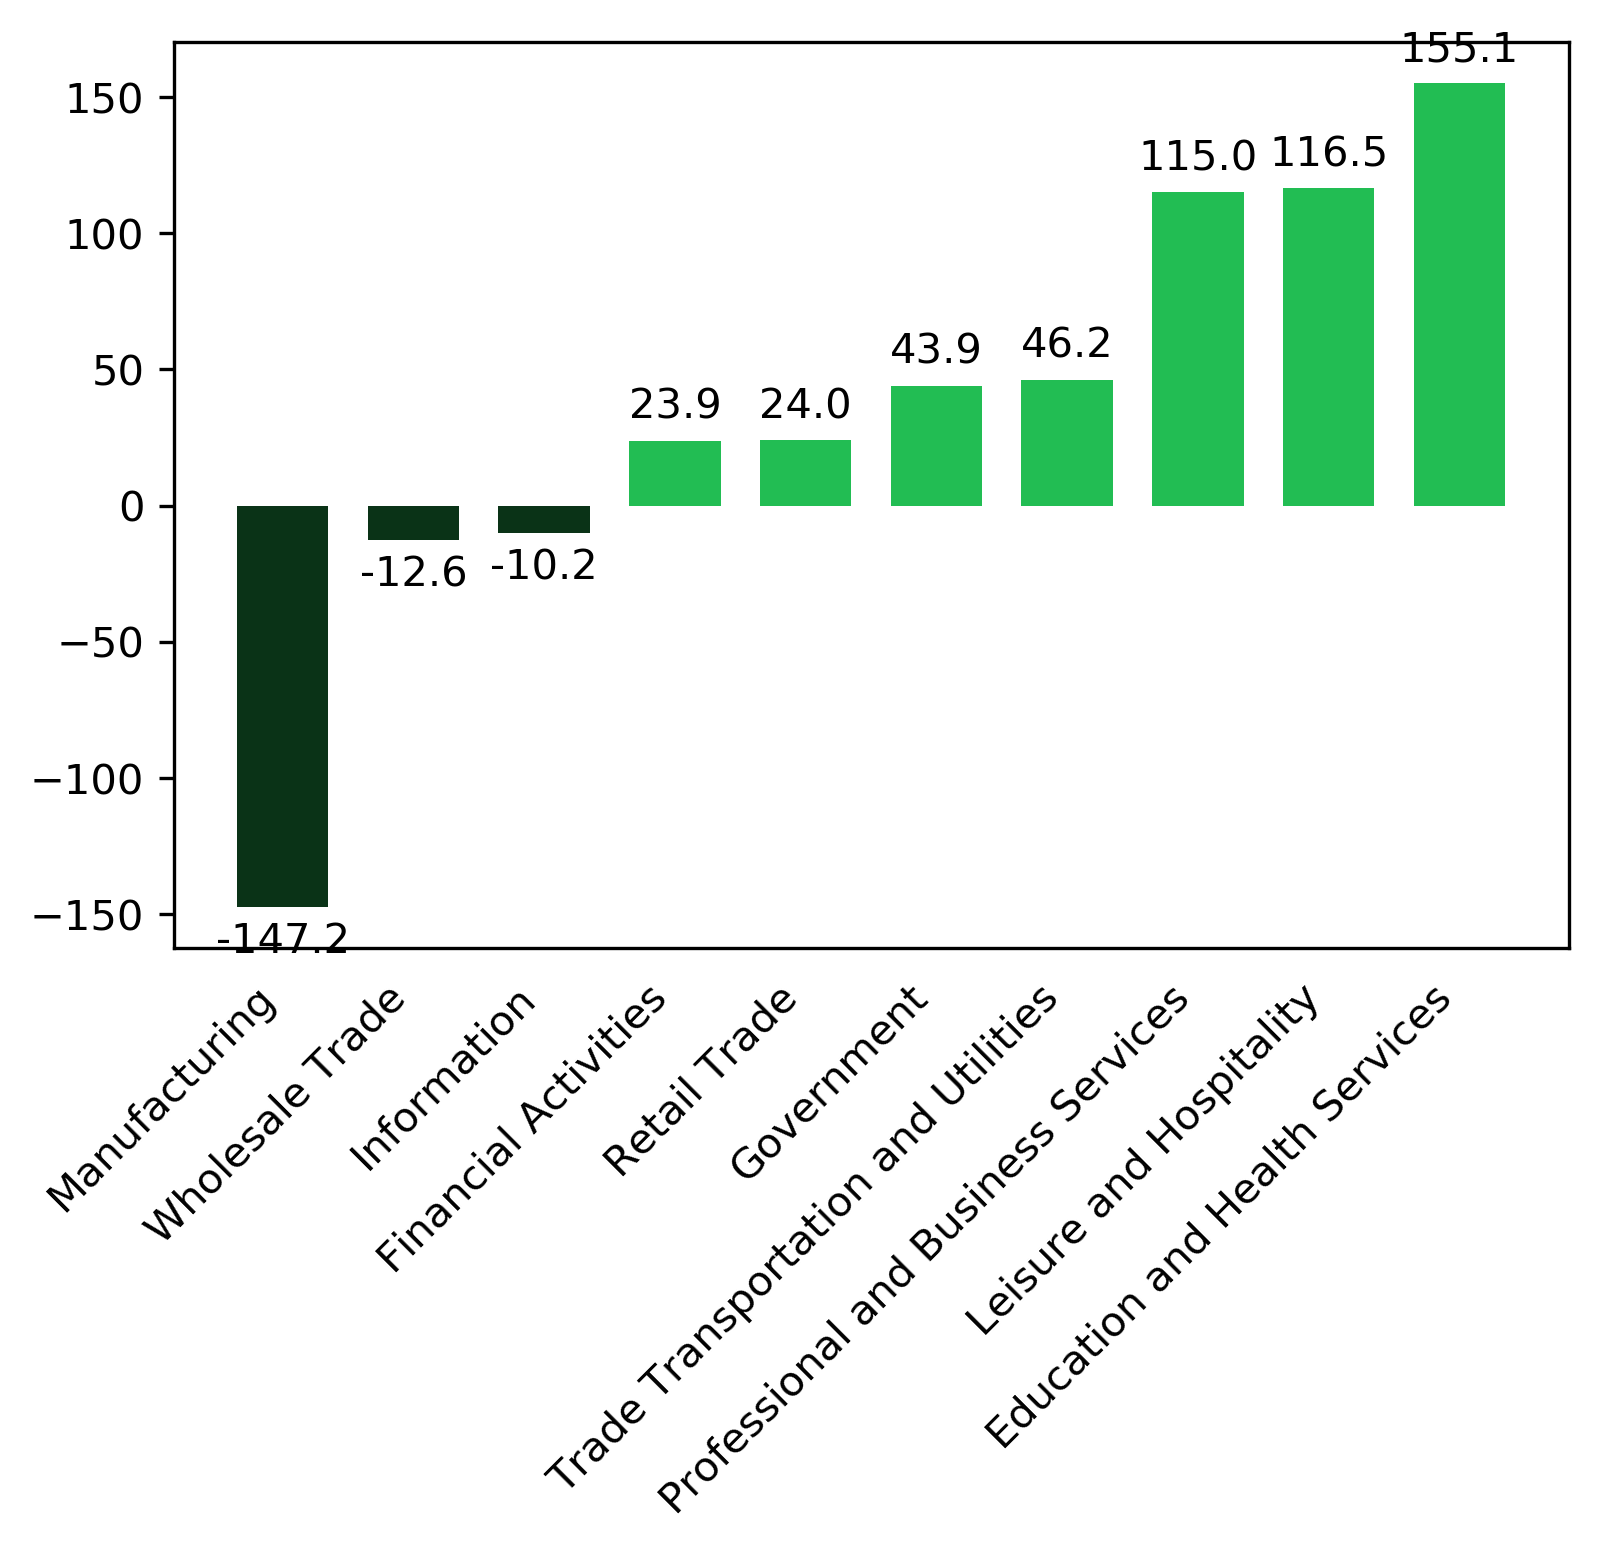
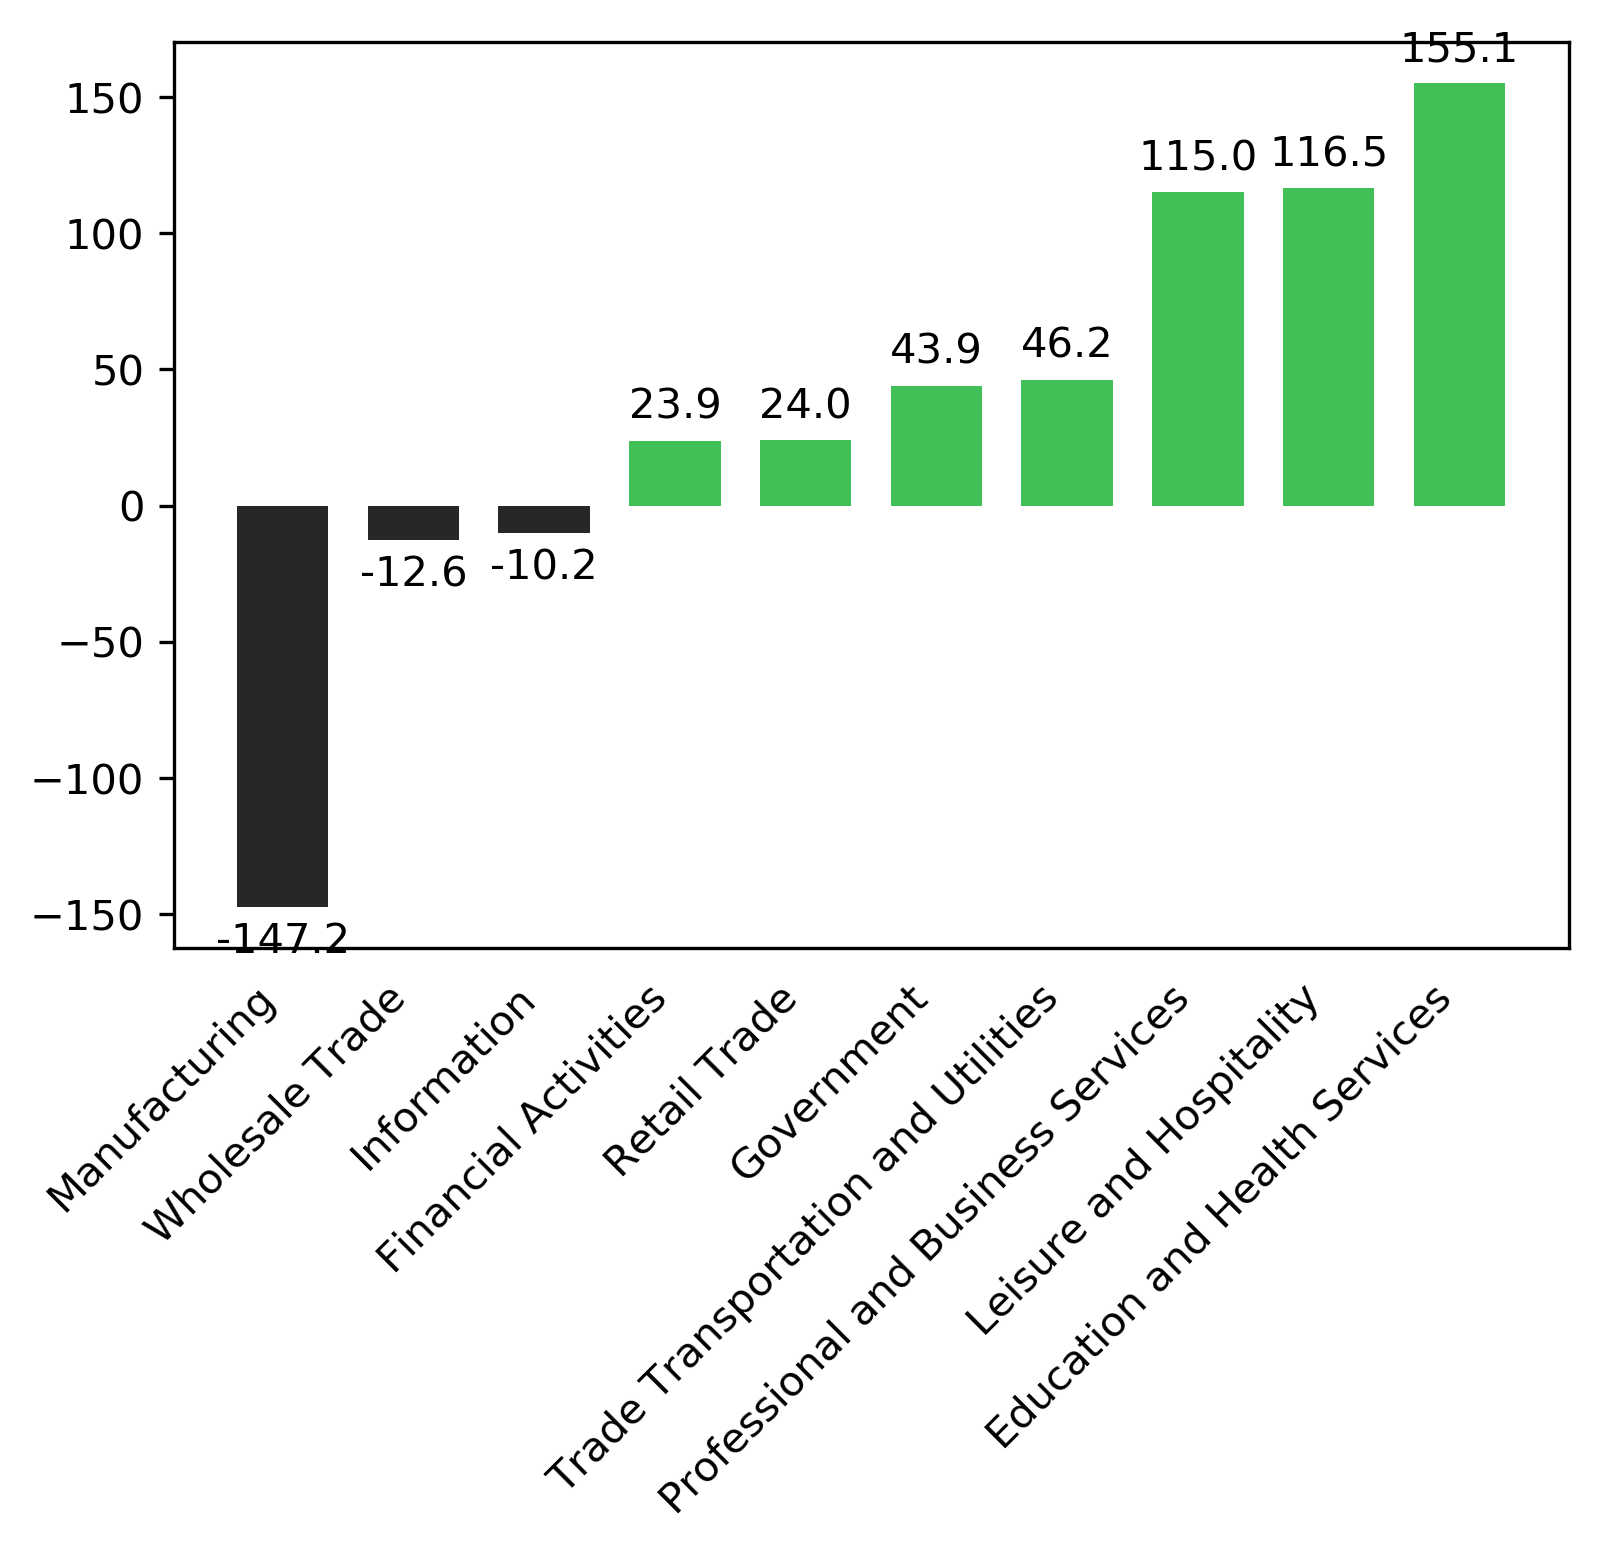
Tried to follow style guide with job_change_sector.png

Changed region(s): [[0.1248, 0.0309, 0.9363, 0.588]]

diff --git a/job_change_sector.py b/job_change_sector.py
@@ -66,8 +66,8 @@ y_pos = np.arange(len(bars))
 # Initiate figure
 fig = plt.figure()
 ax = plt.subplot(111)
-ax.bar(x, negative_data, width=0.7, color='#0a3317')
-ax.bar(x, positive_data, width=0.7, color='#22bd53')
+ax.bar(x, negative_data, width=0.7, color='#272727')
+ax.bar(x, positive_data, width=0.7, color='#40c057')
 rects = ax.patches
 
 # Label x-axis
